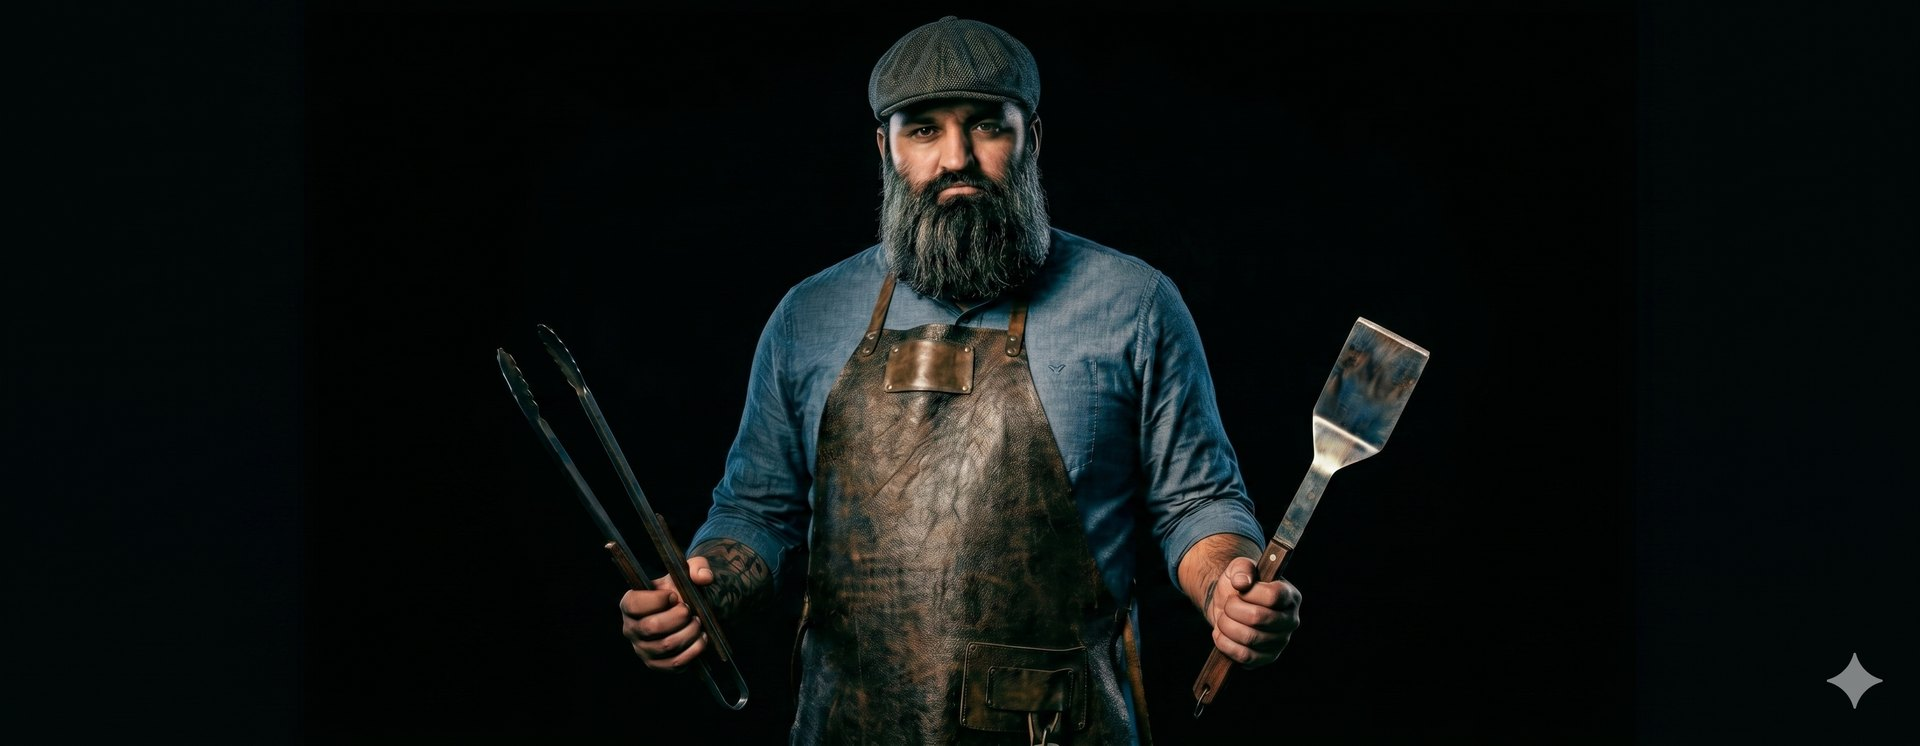
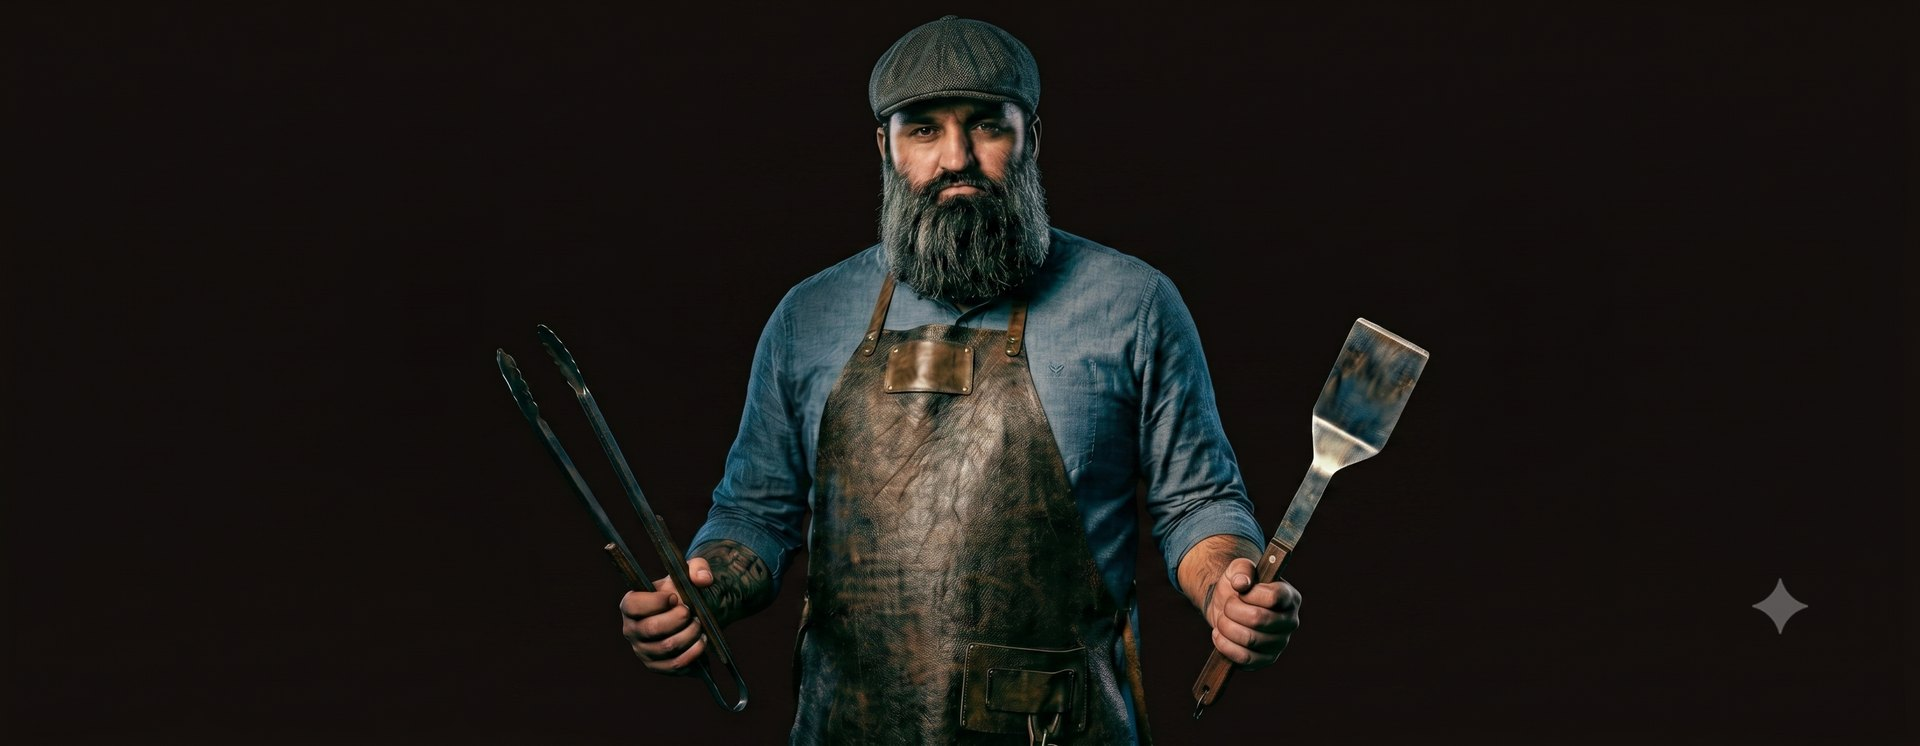
Origin band: matched-bg portrait, full width, top/bottom edges fade into background

diff --git a/index.html b/index.html
@@ -269,6 +269,9 @@ header.nav.scrolled{
 .origin-band img{
   width:100%; height:auto; display:block;        /* full width, whole image, correct aspect — no crop */
   filter:contrast(1.03) saturate(.97);
+  /* fade top & bottom edges into the page so no hard edge is visible */
+  -webkit-mask-image:linear-gradient(to bottom, transparent 0%, #000 8%, #000 92%, transparent 100%);
+          mask-image:linear-gradient(to bottom, transparent 0%, #000 8%, #000 92%, transparent 100%);
 }
 .origin .lede{ margin-top:1.5rem }
 .origin .statement{ margin-top:2.5rem }